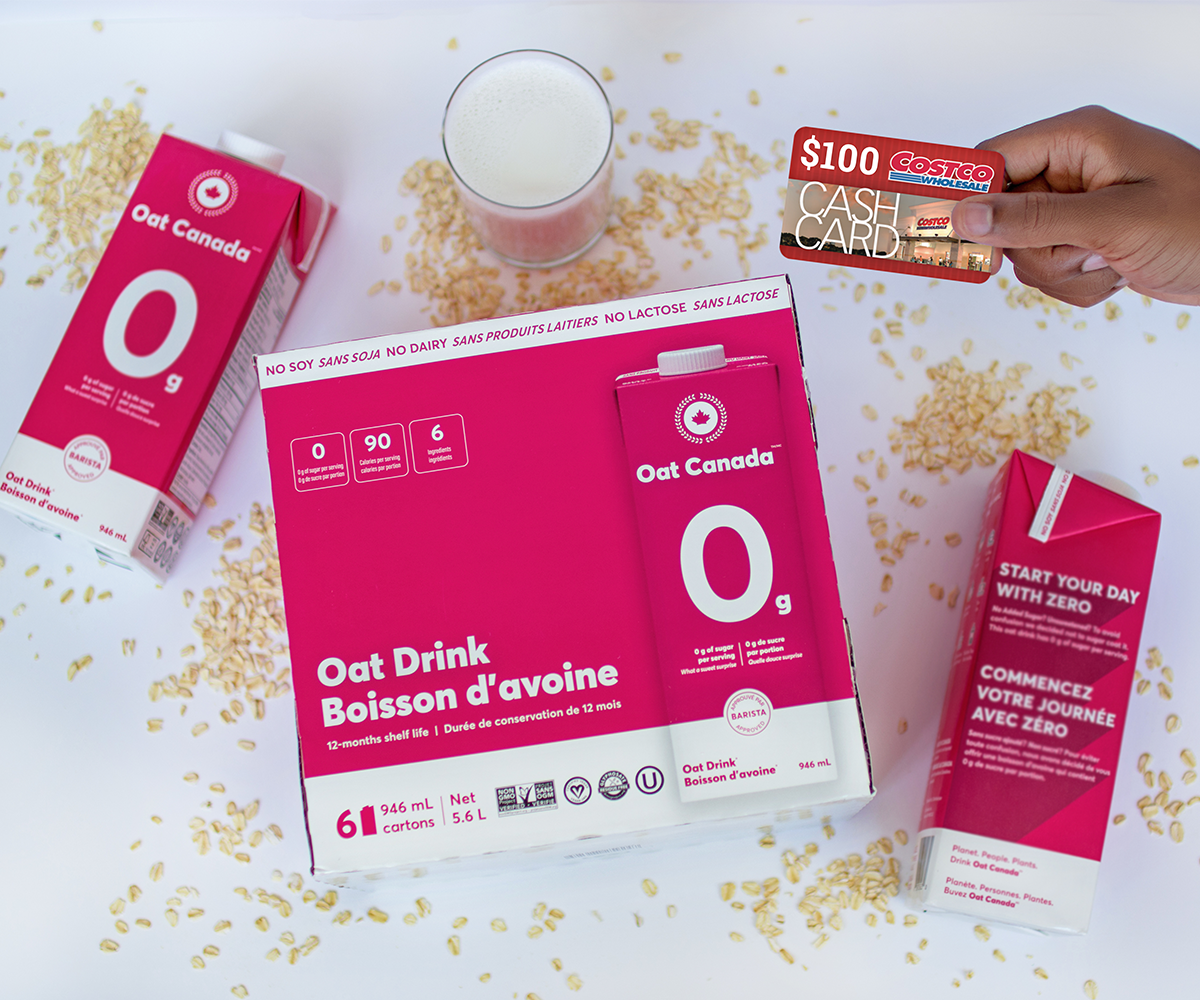
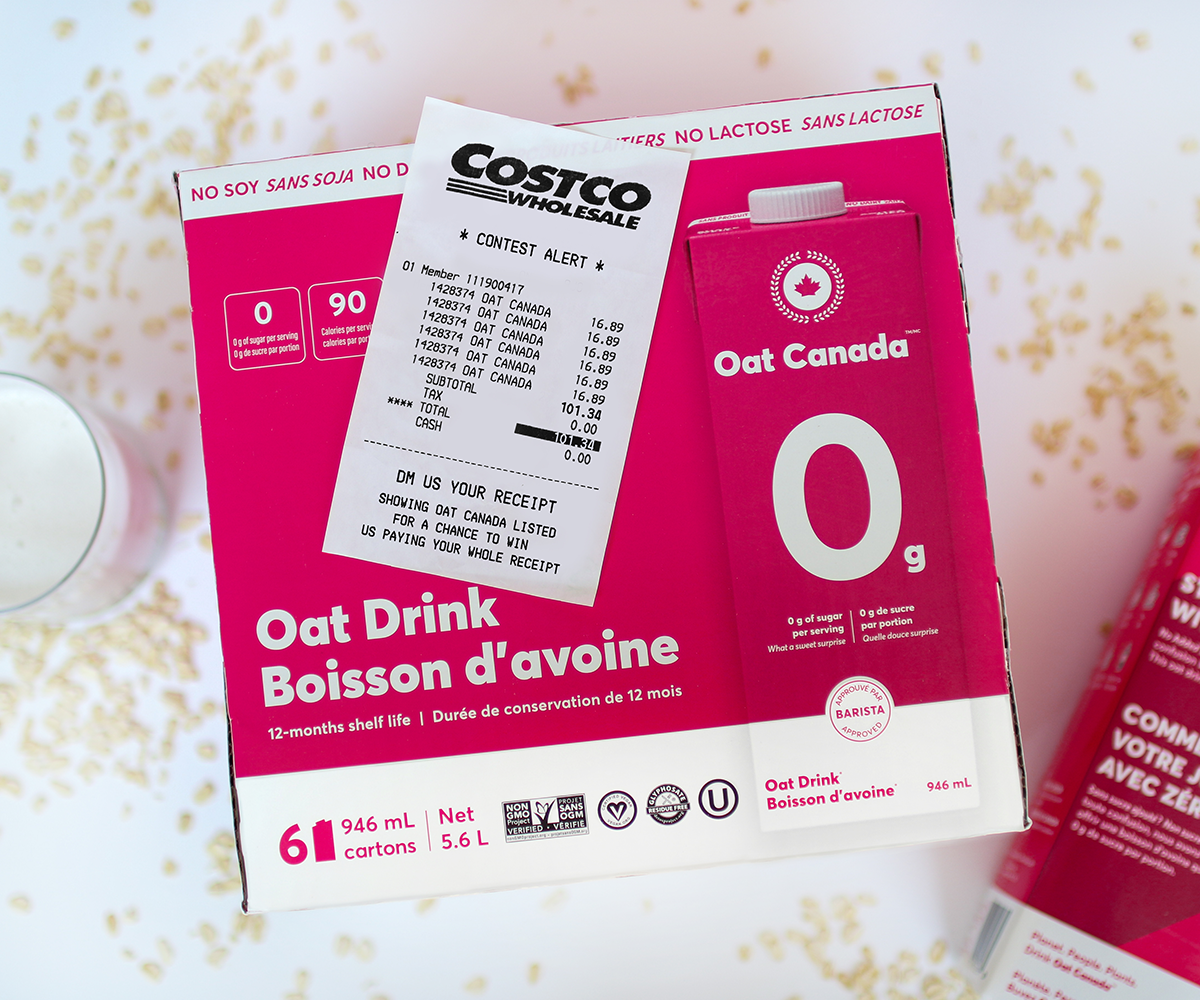
updated

diff --git a/index.html b/index.html
@@ -10,7 +10,7 @@
     <meta name="viewport" content="width=device-width, initial-scale=1, shrink-to-fit=no">
 
     <!--====== Title ======-->
-    <title>Oat Canada™</title>
+    <title>Oat Canada - In Costco Stores Now!</title>
     
      <!-- Global site tag (gtag.js) - Google Analytics -->
     <script async src="https://www.googletagmanager.com/gtag/js?id=G-79Y0V46HC3"></script>
@@ -191,8 +191,8 @@
             <div class="row justify-content-center">
                 <div class="col-lg-6">
                     <div class="section-title text-center pb-20">
-                        <h5 class="sub-title mb-15">We're Certified</h5>
-                        <h2 class="title">Perfect for You</h2>
+                        <h5 class="sub-title mb-15">Good News</h5>
+                        <h2 class="title">We're Certified</h2>
                     </div> <!-- section title -->
                 </div>
             </div> <!-- row -->
@@ -314,7 +314,7 @@
                                     <span class="sub-title">Professional Soccer Player, Toronto FC</span>
                                 </div>
                             </div> <!-- single-testimonial -->
-                            
+                            <!--
                             <div class="single-testimonial text-center">
                                 <div class="testimonial-image">
                                     <img src="assets/images/testimonial/anna.jpg" alt="Anna Bediones Testimonial">
@@ -328,6 +328,20 @@
                                     <span class="sub-title">Creative Producer &amp; Influencer</span>
                                 </div>
                             </div> <!-- single-testimonial-->
+                            
+                             <div class="single-testimonial text-center">
+                                <div class="testimonial-image">
+                                    <img src="assets/images/testimonial/melinda.jpg" alt="Dr. Malinda Lam Testimonial">
+                                    <div class="quota">
+                                        <i class="lni-quotation"></i>
+                                    </div>
+                                </div>
+                                <div class="testimonial-content mt-20">
+                                    <p>It’s creamy and hands down the best oat milk I’ve had! I can customize my tea based on my mood because there is 0g of sugar. Thank you for giving us the chance to make better choices for our body and planet!</p>
+                                    <h5 class="testimonial-name mt-15">Dr. Malinda Lam</h5>
+                                    <span class="sub-title">Founder, Melinda Lam Rehabilitation</span>
+                                </div>
+                            </div> <!-- single-testimonial -->
                             
                             <div class="single-testimonial text-center">
                                 <div class="testimonial-image">
@@ -343,25 +357,8 @@
                                 </div>
                             </div> <!-- single-testimonial -->
                             
-                            <div class="single-testimonial text-center">
-                                <div class="testimonial-image">
-                                    <img src="assets/images/testimonial/melinda.jpg" alt="Dr. Malinda Lam Testimonial">
-                                    <div class="quota">
-                                        <i class="lni-quotation"></i>
-                                    </div>
-                                </div>
-                                <div class="testimonial-content mt-20">
-                                    <p>It’s creamy and hands down the best oat milk I’ve had! I can customize my tea based on my mood because there is 0g of sugar. Thank you for giving us the chance to make better choices for our body and planet!</p>
-                                    <h5 class="testimonial-name mt-15">Dr. Malinda Lam</h5>
-                                    <span class="sub-title">Founder, Melinda Lam Rehabilitation</span>
-                                </div>
-                            </div> <!-- single-testimonial -->
-                            
-                            
-                            
-                            
-                            
-                            
+
+                            <!--
                             <div class="single-testimonial text-center">
                                 <div class="testimonial-image">
                                     <img src="assets/images/testimonial/michelle.jpg" alt="Michelle Jobin Testimonial">
@@ -400,7 +397,7 @@
 
     <!--====== TESTIMONIAL PART ENDS ======-->
 
-    <!--====== CONTEST START ======-->
+    <!--====== CONTEST START ======
 
     <section id="about" class="about-area pb-150">
         <div class="container">
@@ -420,27 +417,26 @@
                         <div class="single-image image-tow float-right">
                             <img src="assets/images/about/about-2.png" alt="About">
                         </div>
-                        <!-- single image -->
+                      
                     </div>
-                    <!-- about image -->
+                 
                 </div>
                 <div class="col-lg-6">
                     <div class="about-content mt-45">
-                        <h4 class="about-welcome">CONTEST GIVEAWAY </h4>
+                        <h4 class="about-welcome">INSTAGRAM CONTEST AlERT</h4>
                         <h3 class="about-title mt-10">Enter for a chance to win</h3>
-                        <p class="mt-25">To celebrate the launch of our 0g of sugar oat milk into Costco, Oat Canada is offering <b>3 LUCKY WINNERS</b> the chance to win a case of Canada's first 0g of sugar oat milk + a $100 Costco gift card. </p>
+                        <p class="mt-25">In celebration of our recent launch into Costco we're holding a contest! DM us your Costco receipt on Instagram showing Oat Canada listed for a chance to win us <b>PAYING</b> your <b>WHOLE RECEIPT</b>.</p>
                         <br>
                         
                         <ul>
                         
                         <li>HOW TO ENTER:</li>
-                        <li>1. Follow @oatcanada on Instagram</li>
-                        <li>2. Like this post on Instagram</li>
-                        <li>3. Tag a friend (tag more friends for multple entries!)</li>
+                        <li>1. DM us your receipt on Instagram</li>
+                        <li>2. Make sure you're also following us</li>
+                        <li>3. Like our post!</li>
                         <br>
                         <li>IMPORTANT:</li>
-                         
-                        <li>This contest is exclusive to Ontario. Be sure to stick around because we're just getting started with our contests!</li>
+                        <li>This contest is open until June 26th at 11:59pm to Ontario residents only. Good luck!</li>
                         
     
                         
@@ -455,12 +451,12 @@
                       
                         <a class="main-btn mt-25" href="#">Discover more here</a>
                     </div>
-                    <!-- about content -->
+                
                 </div>
             </div>
-            <!-- row -->
+           
         </div>
-        <!-- container -->
+  
     </section>
 
     <!--====== CONTEST ENDS ======-->

diff --git a/assets/css/style.css b/assets/css/style.css
@@ -1,21 +1,5 @@
 /*-----------------------------------------------------------------------------------
 
- /*
-This CSS resource incorporates links to font software which is the valuable copyrighted property of Monotype and/or its suppliers. You may not attempt to copy, install, redistribute, convert, modify or reverse engineer this font software. Please contact Monotype with any questions regarding Web Fonts: https://www.linotype.com
-*/
-
-
-/*-----------------------------------------------------------------------------------
-
-    CSS INDEX
-    ===================
-
-    01. Theme default CSS
-	02. Header
-    03. Hero
-	04. Footer
-
------------------------------------------------------------------------------------*/
 
 
 /*===========================

diff --git a/thankyou.html b/thankyou.html
@@ -80,12 +80,12 @@
         <!--
         <div class="shape header-shape-one">
             <img src="assets/images/banner/shape/shape-1.png" alt="shape">
-        </div>  header shape one -->
+        </div>  header shape one
 
         <div class="shape header-shape-tow animation-one">
             <img src="assets/images/banner/shape/shape-2.png" alt="shape">
         </div>
-        <!-- header shape tow -->
+        <!-- header shape tow 
 
         <div class="shape header-shape-three animation-one">
             <img src="assets/images/banner/shape/shape-3.png" alt="shape">
